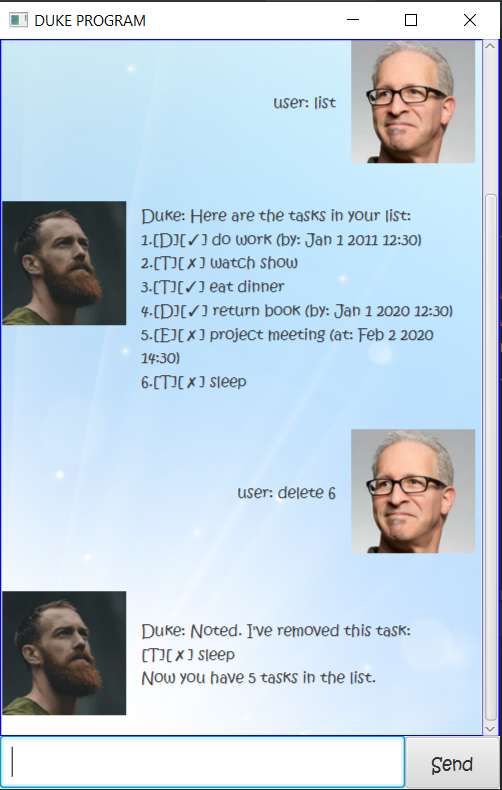
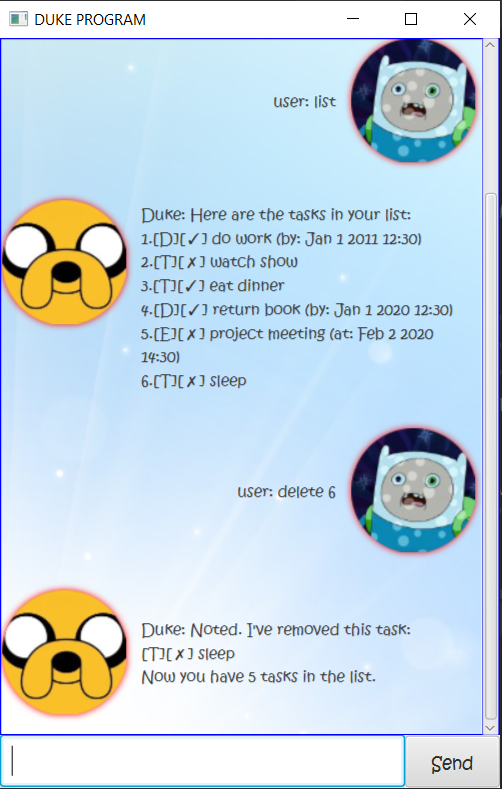
Completed last edits, duke ready for release

diff --git a/src/main/java/Ui.java b/src/main/java/Ui.java
@@ -35,7 +35,8 @@ public class Ui {
      * @return Returns a greeting string.
      */
     public String greet() {
-        return format("Hello! I'm Duke!\n" + "What can I do for you?");
+        return format("Hello! I'm Duke!\n" + "What can I do for you?\n"
+                + "Type 'help' if you are a new user!");
     }
 
     /**
@@ -111,6 +112,25 @@ public class Ui {
             sb.append(i + 1 + "." + tasks.get(i) + "\n");
         }
         return format(sb.toString());
+    }
+
+    /**
+     * Returns/Prints a help menu for the user.
+     * @return Returns a string message for all the commands.
+     */
+    public String displayHelpMenu() {
+        return line + "\n" + "Available Commands: " + "\n"
+                + "list: displays all current tasks" + "\n"
+                + "done [task no]: marks task as completed" + "\n"
+                + "todo [details]: adds a todo task" + "\n"
+                + "deadline [details] /by [YYYY-MM-DD HH:MM]: adds a deadline" + "\n"
+                + "event [details] /at [YYYY-MM-DD HH:MM]: adds an event" + "\n"
+                + "delete [task no]: removes task" + "\n"
+                + "find [keyword]: searches for tasks" + "\n"
+                + "undo: reverts the latest command" + "\n"
+                + "bye: exits the program" + "\n"
+                + "help: opens this help menu" + "\n"
+                + "Enjoy this program!" + "\n" + line;
     }
 
     /**

diff --git a/src/main/java/DialogBox.java b/src/main/java/DialogBox.java
@@ -7,10 +7,15 @@ import javafx.fxml.FXML;
 import javafx.fxml.FXMLLoader;
 import javafx.geometry.Pos;
 import javafx.scene.Node;
+import javafx.scene.SnapshotParameters;
 import javafx.scene.control.Label;
+import javafx.scene.effect.DropShadow;
 import javafx.scene.image.Image;
 import javafx.scene.image.ImageView;
+import javafx.scene.image.WritableImage;
 import javafx.scene.layout.HBox;
+import javafx.scene.paint.Color;
+import javafx.scene.shape.Circle;
 
 /**
  * An example of a custom control using FXML.
@@ -35,6 +40,24 @@ public class DialogBox extends HBox {
 
         dialog.setText(text);
         displayPicture.setImage(img);
+
+        // create a circle and clip it
+        Circle circle = new Circle(50, 50, 50);
+        displayPicture.setClip(circle);
+
+        // snapshot the rounded image
+        SnapshotParameters parameters = new SnapshotParameters();
+        parameters.setFill(Color.TRANSPARENT);
+        WritableImage snappedImage = displayPicture.snapshot(parameters, null);
+
+        // remove the rounding clip to allow effect to show through
+        displayPicture.setClip(null);
+        DropShadow glow = new DropShadow();
+        glow.setColor(Color.RED);
+        glow.setWidth(15);
+        glow.setHeight(15);
+        displayPicture.setEffect(glow);
+        displayPicture.setImage(snappedImage);
     }
 
     /**

diff --git a/src/main/java/MainWindow.java b/src/main/java/MainWindow.java
@@ -20,8 +20,8 @@ public class MainWindow extends AnchorPane {
 
     private Duke duke;
 
-    private Image userImage = new Image(this.getClass().getResourceAsStream("/images/dauser.png"));
-    private Image dukeImage = new Image(this.getClass().getResourceAsStream("/images/daduke.png"));
+    private Image userImage = new Image(this.getClass().getResourceAsStream("/images/daFinn.jpg"));
+    private Image dukeImage = new Image(this.getClass().getResourceAsStream("/images/daJake.jpg"));
 
     @FXML
     public void initialize() {

diff --git a/src/main/java/Parser.java b/src/main/java/Parser.java
@@ -47,6 +47,8 @@ public class Parser {
             return new FindCommand(afterCommand);
         case UNDO:
             return new UndoCommand(afterCommand);
+        case HELP:
+            return new HelpCommand();
         case UNIDENTIFIED:
             // if a bad command is thrown at Duke
             throw new DukeException("Please enter a command I understand!");

diff --git a/src/main/java/HelpCommand.java b/src/main/java/HelpCommand.java
@@ -1,0 +1,14 @@
+/**
+ * Represents a help command.
+ */
+public class HelpCommand extends Command {
+    @Override
+    public String execute(TaskList taskList, Ui ui, DukeStorage storage) {
+        return ui.displayHelpMenu();
+    }
+
+    @Override
+    public boolean isCompleted() {
+        return false;
+    }
+}

diff --git a/src/main/java/CommandType.java b/src/main/java/CommandType.java
@@ -2,5 +2,5 @@
  * Represents the different command types in the enum class.
  */
 public enum CommandType {
-    BYE, LIST, DONE, TODO, DEADLINE, EVENT, DELETE, FIND, UNDO, UNIDENTIFIED;
+    BYE, LIST, DONE, TODO, DEADLINE, EVENT, DELETE, FIND, UNDO, HELP, UNIDENTIFIED;
 }
